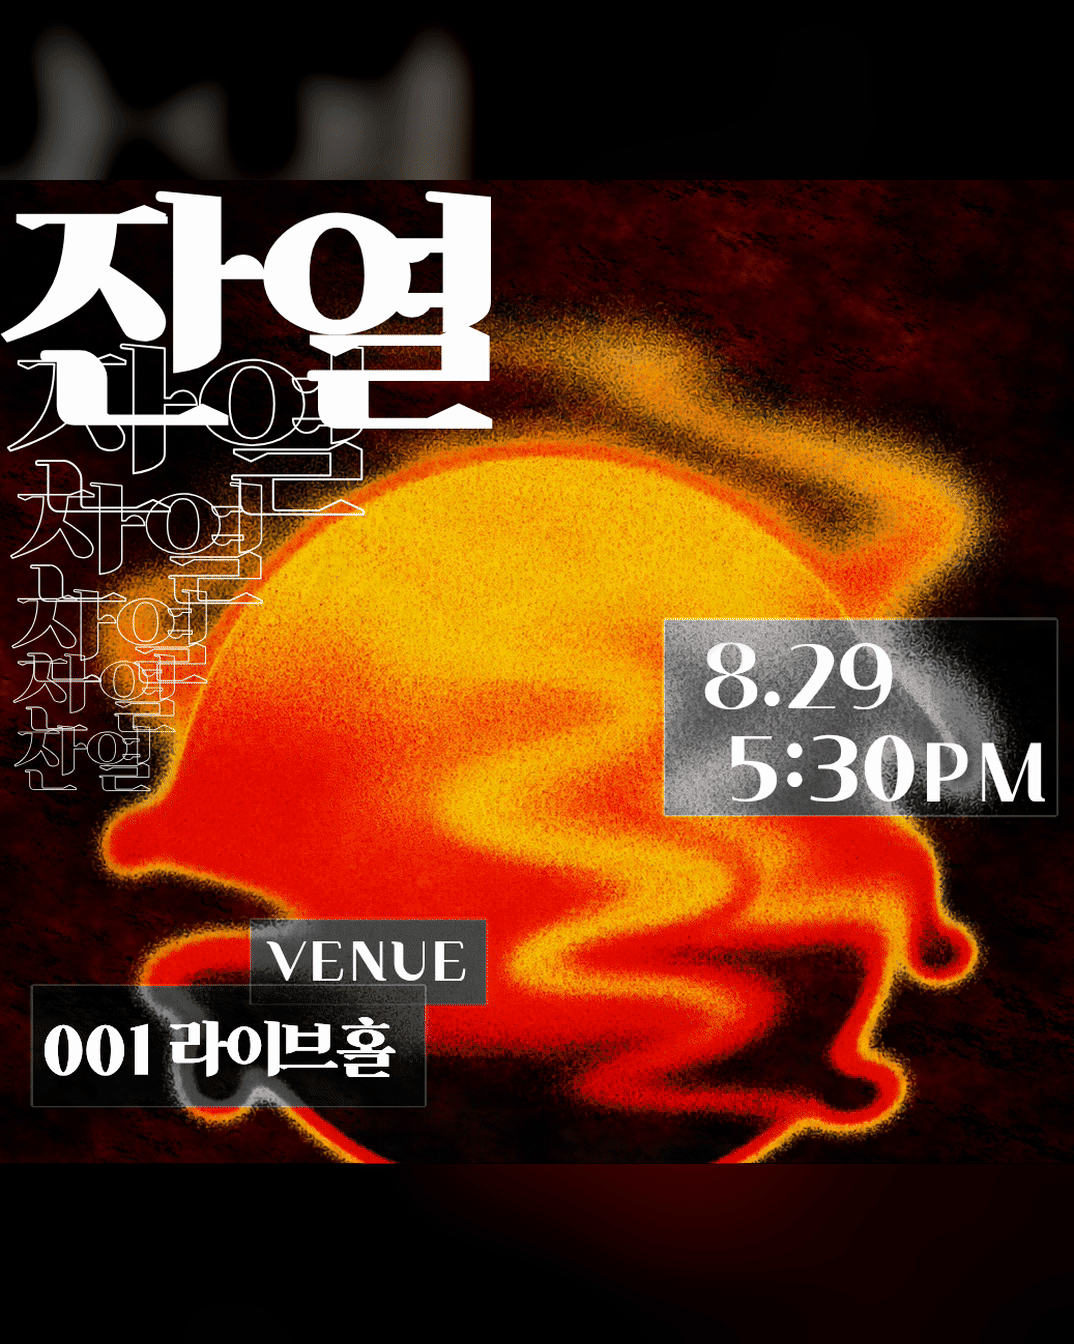
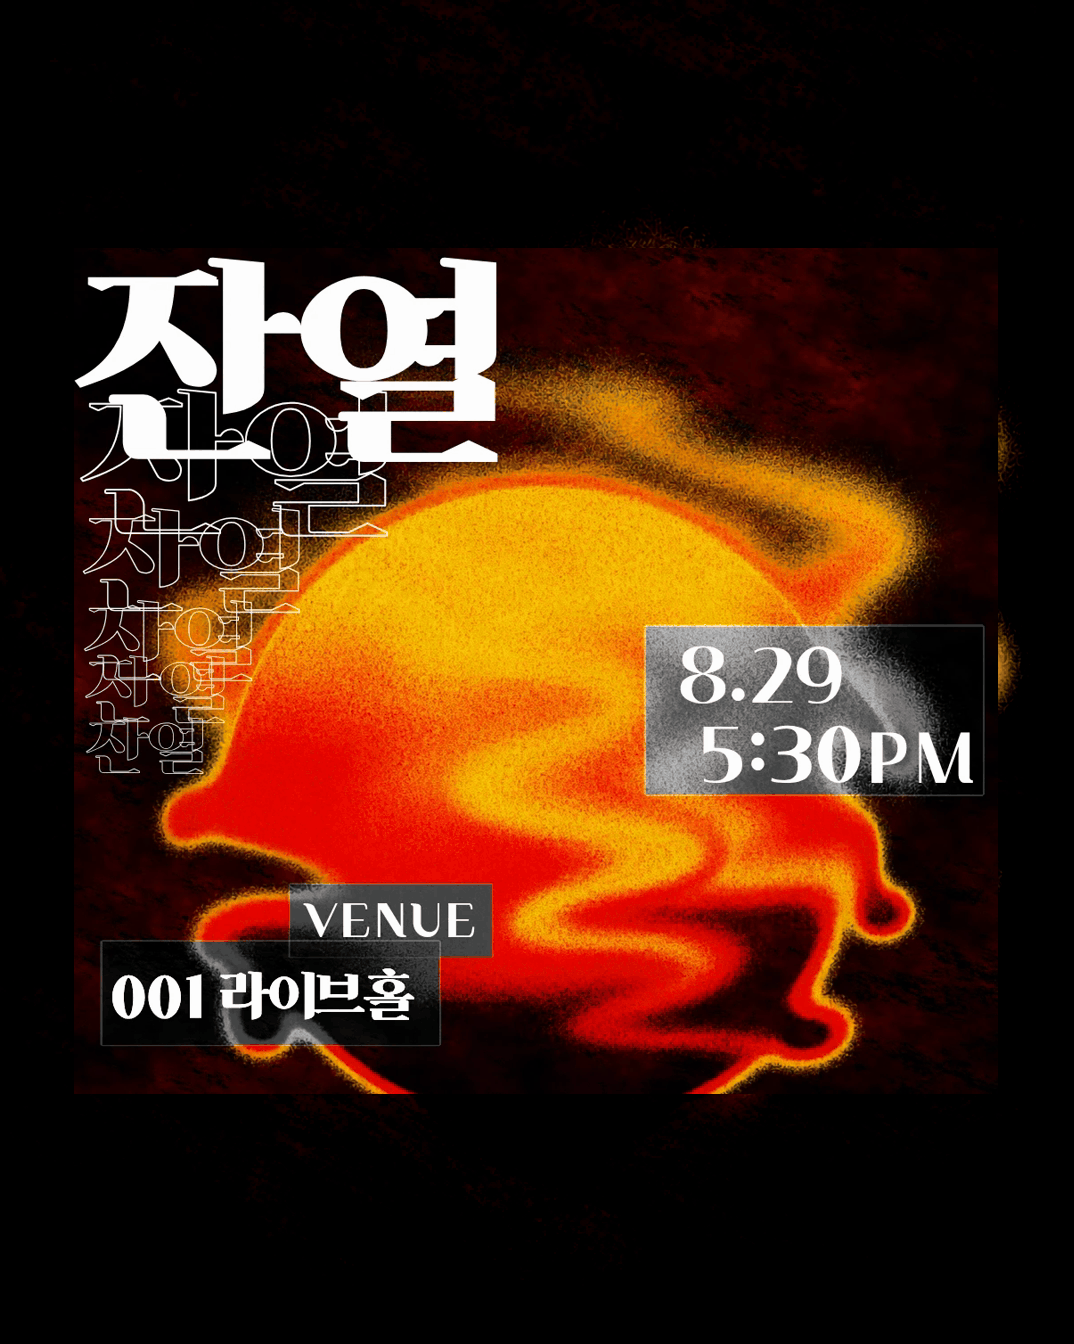
Keep Wallet artwork legible within system masks
Use the supplied no-text illustration as the full background and inset the event poster for artwork and thumbnail variants.

Constraint: Preserve Apple's existing 1x/2x/3x asset dimensions
Rejected: Crop the poster edge-to-edge | Wallet masks clipped the supplied typography
Confidence: high
Scope-risk: narrow
Directive: Preserve the poster safe inset when replacing Wallet artwork
Tested: Visual inspection of 3x assets and simulated circular thumbnail mask
Not-tested: Physical iPhone rendering

diff --git a/wallet-api/README.md b/wallet-api/README.md
@@ -22,7 +22,8 @@ Pass Type ID 인증서 `6R3TW44947`의 만료일은 `2027-09-04`입니다.
 패스는 Apple의 [현재 Wallet HIG](https://developer.apple.com/design/human-interface-guidelines/wallet#Designing-passes)에 맞춰
 `posterEventTicket`을 먼저 요청하고 `eventTicket`으로 폴백합니다. 지원되는 포스터 레이아웃은
 `artwork.png`를 사용하며, QR 때문에 포스터 검증이 되지 않는 환경은 기존 이벤트 필드와
-`background.png`, `thumbnail.png`를 사용합니다. 이미지의 1x/2x/3x 크기는 다음과 같습니다.
+`background.png`, `thumbnail.png`를 사용합니다. 썸네일용 포스터는 Wallet의 원형 마스크에서
+글자가 잘리지 않도록 배경 안쪽에 여백을 둡니다. 이미지의 1x/2x/3x 크기는 다음과 같습니다.
 
 - `artwork`: `358x448`, `716x896`, `1074x1344`
 - `background`: `343x503`, `686x1006`, `1029x1509`
